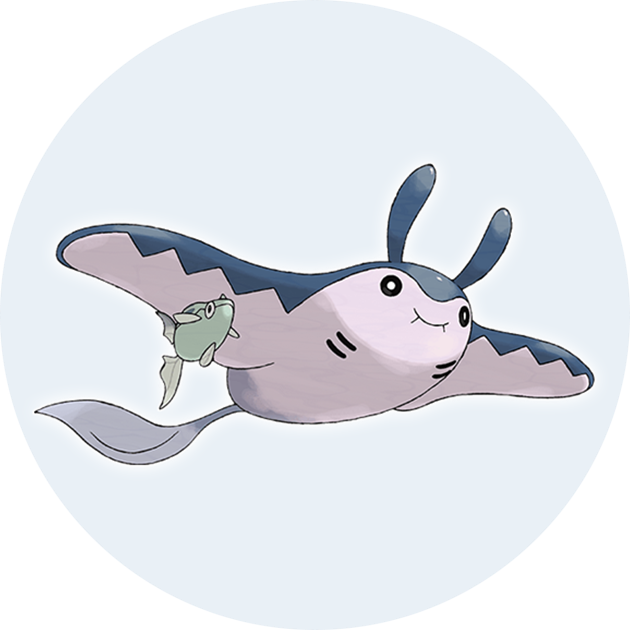
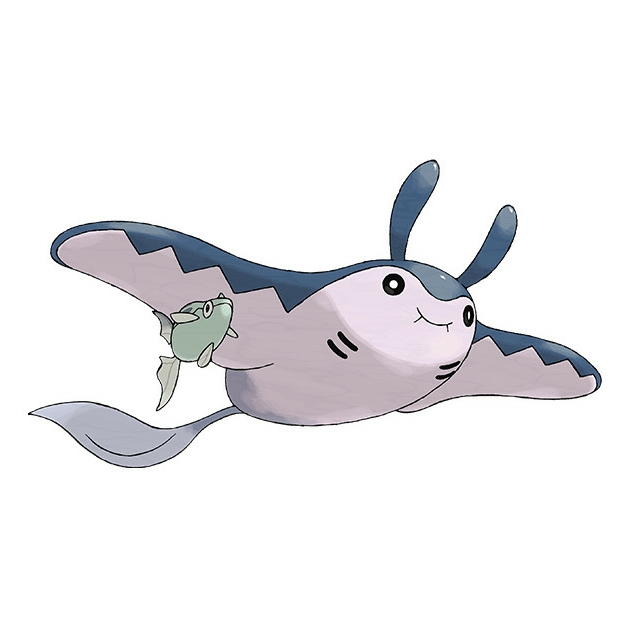
修改头像和背景色

diff --git a/layouts/partials/head/custom.html b/layouts/partials/head/custom.html
@@ -5,6 +5,8 @@
     }
 </style>
 
+<script src="https://cdn.bootcdn.net/ajax/libs/jquery/3.6.0/jquery.min.js"></script>
+
 <script>
 		(function () {
 		    const customFont = document.createElement('link');
@@ -15,3 +17,10 @@
 		    document.head.appendChild(customFont);
 		}());
 </script>
+
+
+<style>
+	.post-preview{max-width:780px;height:210px;margin:1em auto;position:relative;display:flex;background:#fff;border-radius:4px;box-shadow:0 1px 2px rgba(0,0,0,.25),0 0 1px rgba(0,0,0,.25);}.post-preview--meta{width:75%;padding:25px;overflow:hidden;}.post-preview--middle {line-height:28px;}.post-preview--title {font-size:18px;margin:0!important;}.post-preview--title a{text-decoration:none;}.post-preview--date{font-size:14px;color:#999;}.post-preview--excerpt{font-size:14px;line-height:1.825;}.post-preview--excerpt p{margin-bottom:0;}  .post-preview--image {height:210px!important;width:auto;float:right;border-top-right-radius: 2px!important;border-bottom-right-radius:2px!important;border-top-left-radius:0!important;border-bottom-left-radius:0!important;}
+	@media (max-width:550px) {.post-preview {width:95%;}.post-preview--excerpt{display:none;}.post-preview--middle {line-height:19px;}}
[1 lines of base64/hex data omitted]
+</style>

diff --git a/layouts/partials/footer/custom.html b/layouts/partials/footer/custom.html
@@ -1,0 +1,39 @@
+<script>
+jQuery(document).ready(function ($) {
+  $("a[href*='douban']").each(function () {
+    var _this = $(this);
+    var str = _this.attr("href");
+    var db_reg = /^https\:\/\/(movie|book)\.douban\.com\/subject\/([0-9]+)\/?/;
+    if (db_reg.test(str)) {
+      var db_type = str.replace(db_reg, "$1");
+      var db_id = str.replace(db_reg, "$2").toString();
+      var db_api = "https://bm.weajs.com/api/";
+      if (db_type == 'movie') {
+        var url = db_api + "movie/" + db_id + "/";
+        $.ajax({
+          url: url,
+          type: 'GET',
+          dataType: "json",
+          success: function (data) {
+            var db_star = Math.ceil(data.rating);
+            $("<div class='post-preview'><div class='post-preview--meta'><div class='post-preview--middle'><h4 class='post-preview--title'><a target='_blank' href='" + str + "'>《" + data.title + "》</a></h4><div class='rating'><div class='rating-star allstar" + db_star + "'></div><div class='rating-average'>" + data.rating + "</div></div><time class='post-preview--date'>导演：" + data.directors + " / 类型：" + data.genres + " / " + data.pubdate + "</time><section style='max-height:75px;overflow:hidden;' class='post-preview--excerpt'>" + data.intro + "</section></div></div><img class='post-preview--image' src=" + data.cover + "></div>").replaceAll(_this)
+          }
+        });
+      } else if (db_type == 'book') {
+        var url = db_api + "book/" + db_id;
+        $.ajax({
+          url: url,
+          type: 'GET',
+          dataType: 'json',
+          success: function (data) {
+            var db_star = Math.ceil(data.rating);
+            $("<div class='post-preview'><div class='post-preview--meta'><div class='post-preview--middle'><h4 class='post-preview--title'><a target='_blank' href='" + str + "'>《" + data.title + "》</a></h4><div class='rating'><div class='rating-star allstar" + db_star + "'></div><div class='rating-average'>" + data.rating + "</div></div><time class='post-preview--date'>作者：" + data.author + " </time><section style='max-height:75px;overflow:hidden;' class='post-preview--excerpt'>" + data.intro + "</section></div></div><img class='post-preview--image' src=" + data.cover + "></div>").replaceAll(_this)
+          }
+        });
+      } else {
+        console.log("出错" + id)
+      }
+    }
+  });
+});
+</script>

diff --git a/assets/scss/partials/layout/article.scss b/assets/scss/partials/layout/article.scss
@@ -10,7 +10,7 @@
     .main-article {
         background: var(--card-background);
         border-radius: var(--card-border-radius);
-        box-shadow: var(--shadow-l2);
+        box-shadow: var(--shadow-l3);
         overflow: hidden;
 
         &.main-article {
@@ -257,7 +257,7 @@
         overflow: hidden;
         width: 250px;
         height: 80px;
-        box-shadow: var(--shadow-l2);
+        box-shadow: var(--shadow-l1);
 
         .article-title {
             font-size: 1.4rem;

diff --git a/layouts/partials/head/head.html b/layouts/partials/head/head.html
@@ -1,6 +1,6 @@
 <meta charset='utf-8'>
 <meta name='viewport' content='width=device-width, initial-scale=1'>
-
+<meta name="referrer" content="never">
 {{- $description := partialCached "data/description" . .RelPermalink -}}
 <meta name='description' content='{{ $description }}'>
 
@@ -27,3 +27,4 @@
 {{ if not .Site.IsServer }}
     {{ template "_internal/google_analytics_async.html" . }}
 {{ end }}
+

diff --git a/assets/scss/variables.scss b/assets/scss/variables.scss
@@ -25,7 +25,7 @@ $defaultTagColors: #fff, #fff, #fff, #fff, #fff;
         --main-top-padding: 50px;
     }
 
-    --body-background: #eceff4;
+    --body-background: #6994c20f;
 
     --accent-color: #34495e;
     --accent-color-darker: #2c3e50;

diff --git a/content/post/2021/0927-另一篇 Stack 主题装修记录.md b/content/post/2021/0927-另一篇 Stack 主题装修记录.md
@@ -104,6 +104,8 @@ frontmatter:
 
 原色值是`#f5f5fa`，我觉得稍微有一点太亮了，改成了一直在用的`#F6F6F6`，，备用色值还有`#ECEFF4`和`#f2f2f7`，前者比较偏蓝色，后者是Eureka主题的背景色。
 
+10.1更新：试验了`#84a6cb0f`和`#6994c20f`和选了`#6994c20f`，是比`#ECEFF4`更浅并偏灰的蓝色，总之我是在向海洋动物馆方向越走越远了。
+
 	
 
 ## 进一步修改代码块

diff --git a/content/post/2021/1001.md b/content/post/2021/1001.md
@@ -1,0 +1,19 @@
+---
+title: "1001"
+date: 2021-10-01T01:43:46+08:00
+lastmod: 2021-10-01T01:43:46+08:00
+description: 简明麻瓜快速念咒Hugo搭建笔记
+toc: true
+tags:
+  - Hugo
+categories:
+  - 麻瓜快速念咒互助小组
+image: 
+math: 
+license: 
+hidden: false
+slug: 81ae2119
+
+---
+
+<https://movie.douban.com/subject/10432911/>
